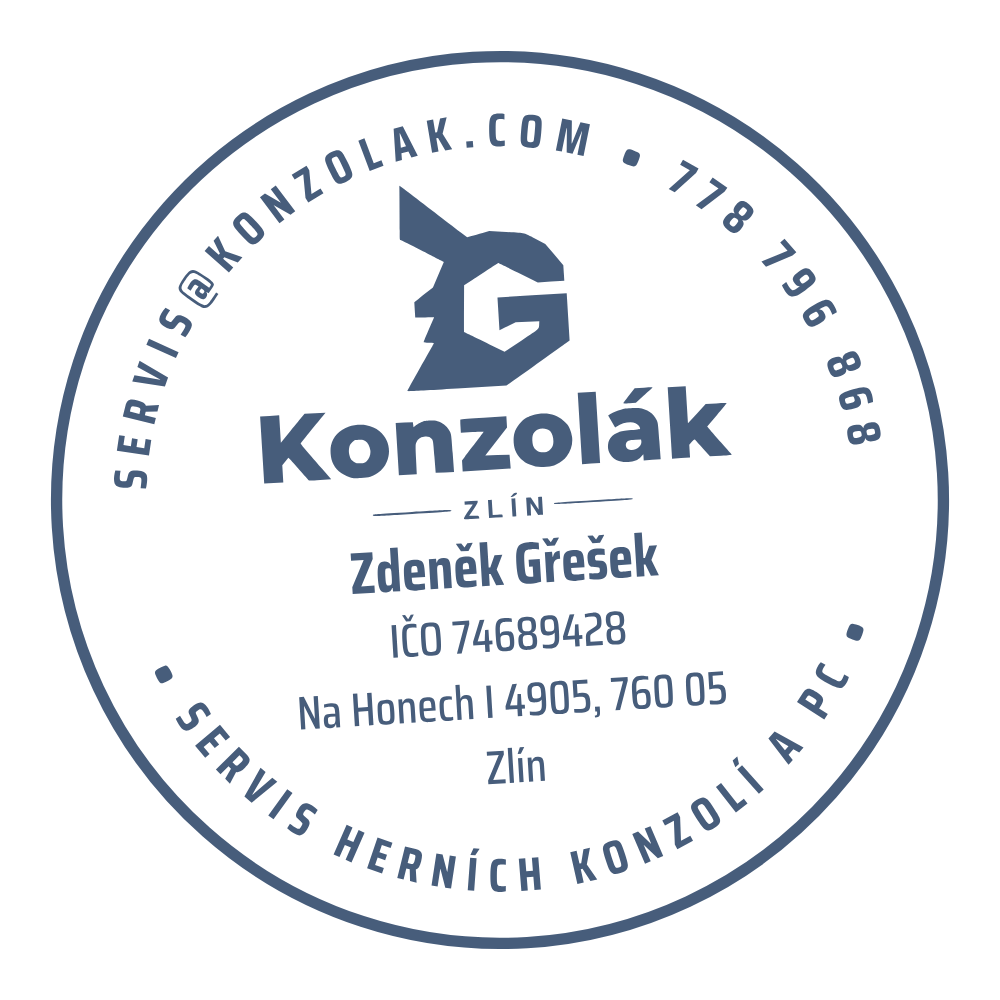
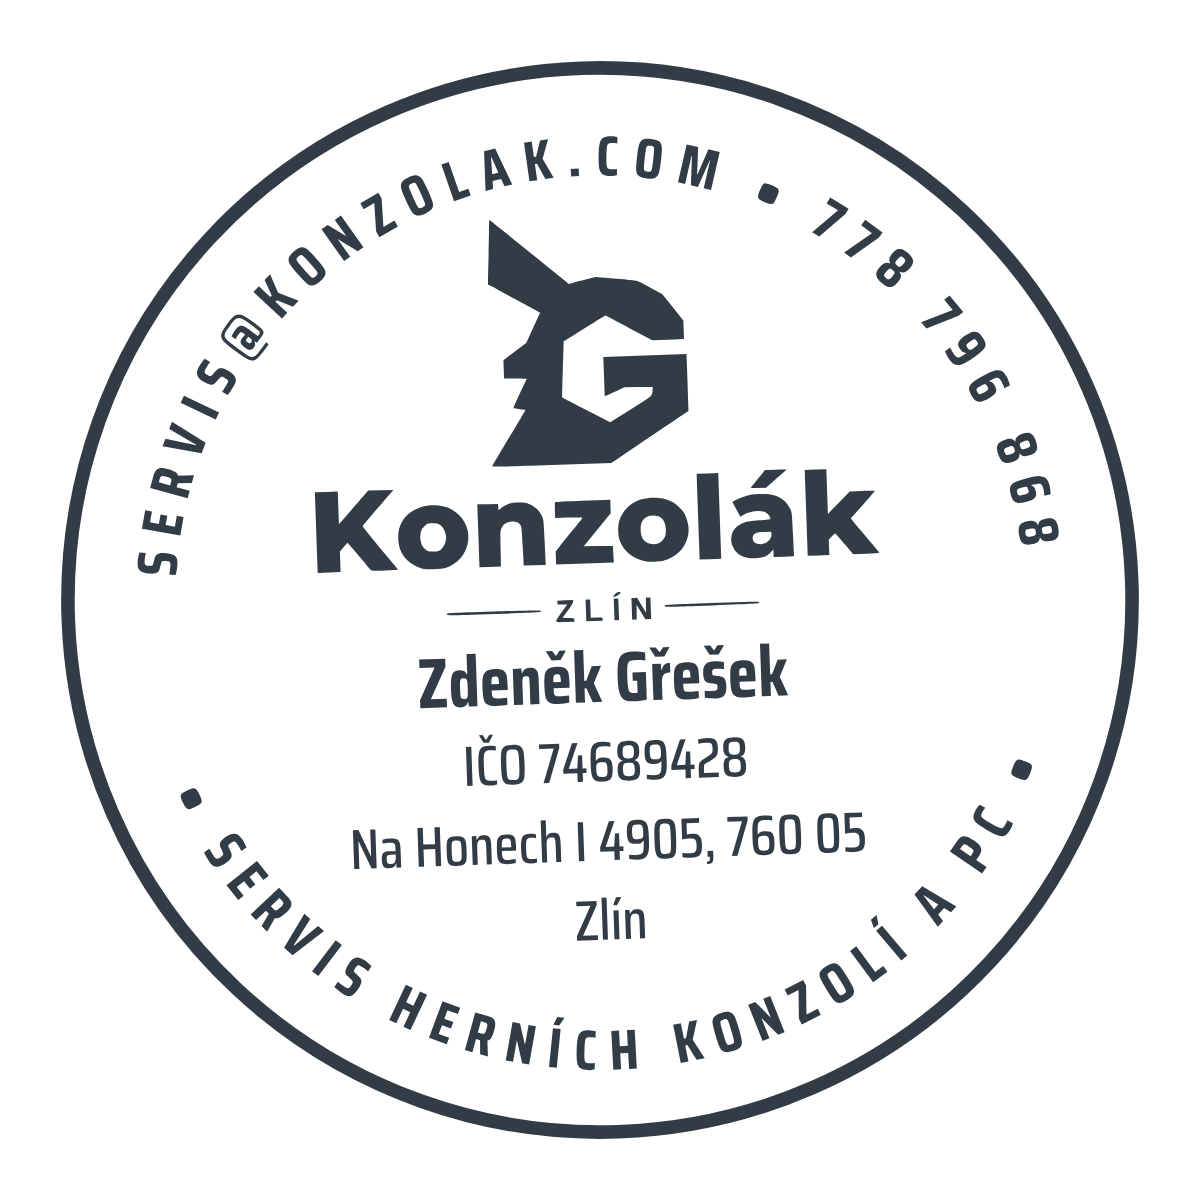
Hlavní razítko na všech dokladech + uložení vektoru
- razitko.svg = finální vektor v křivkách (varianta 1 s kruhem, celý lockup)
- razitko.png = otisk pro patičku PDF
- razítko se teď tiskne u firemního podpisu na VŠECH dokladech
  (protokol, doklad o převzetí, nabídka, faktura, výkup/prodej)

diff --git a/resources/views/pdf/partials/paticka.blade.php b/resources/views/pdf/partials/paticka.blade.php
@@ -1,7 +1,8 @@
 {{-- Patička dokumentu – mPDF ji vykreslí vždy u spodního okraje stránky --}}
 @php
+    // Hlavní firemní razítko – otisk nad levým (firemním) podpisovým řádkem na všech dokladech.
     $razitkoSoubor = public_path('images/razitko.png');
-    $zobrazitRazitko = \Illuminate\Support\Str::contains($podpisL ?? '', 'razítko') && is_file($razitkoSoubor);
+    $zobrazitRazitko = ! empty($podpisL) && is_file($razitkoSoubor);
 @endphp
 <htmlpagefooter name="paticka">
     <div class="paticka">
